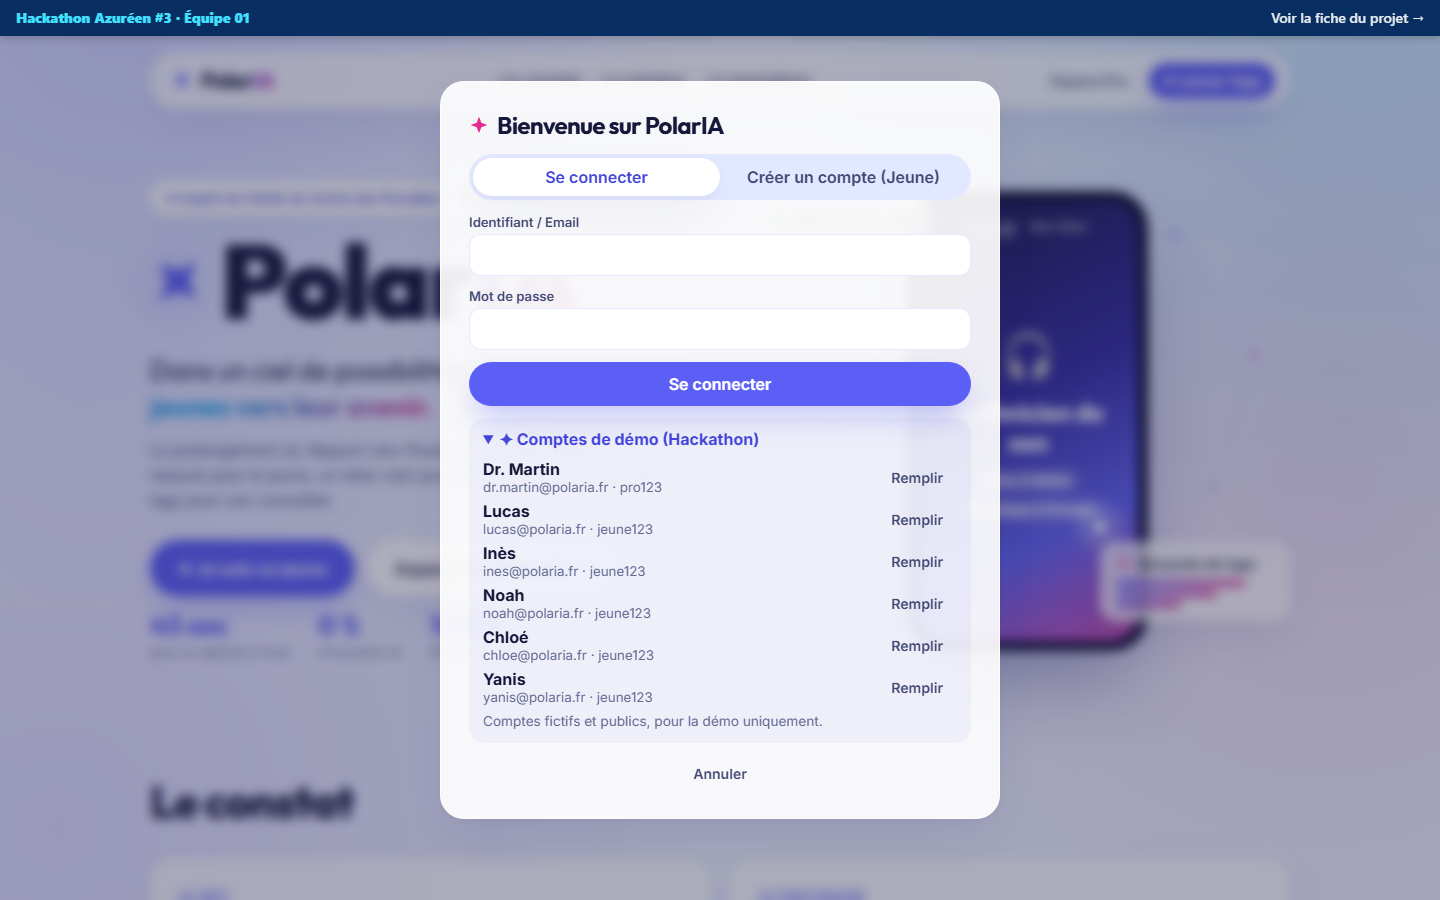
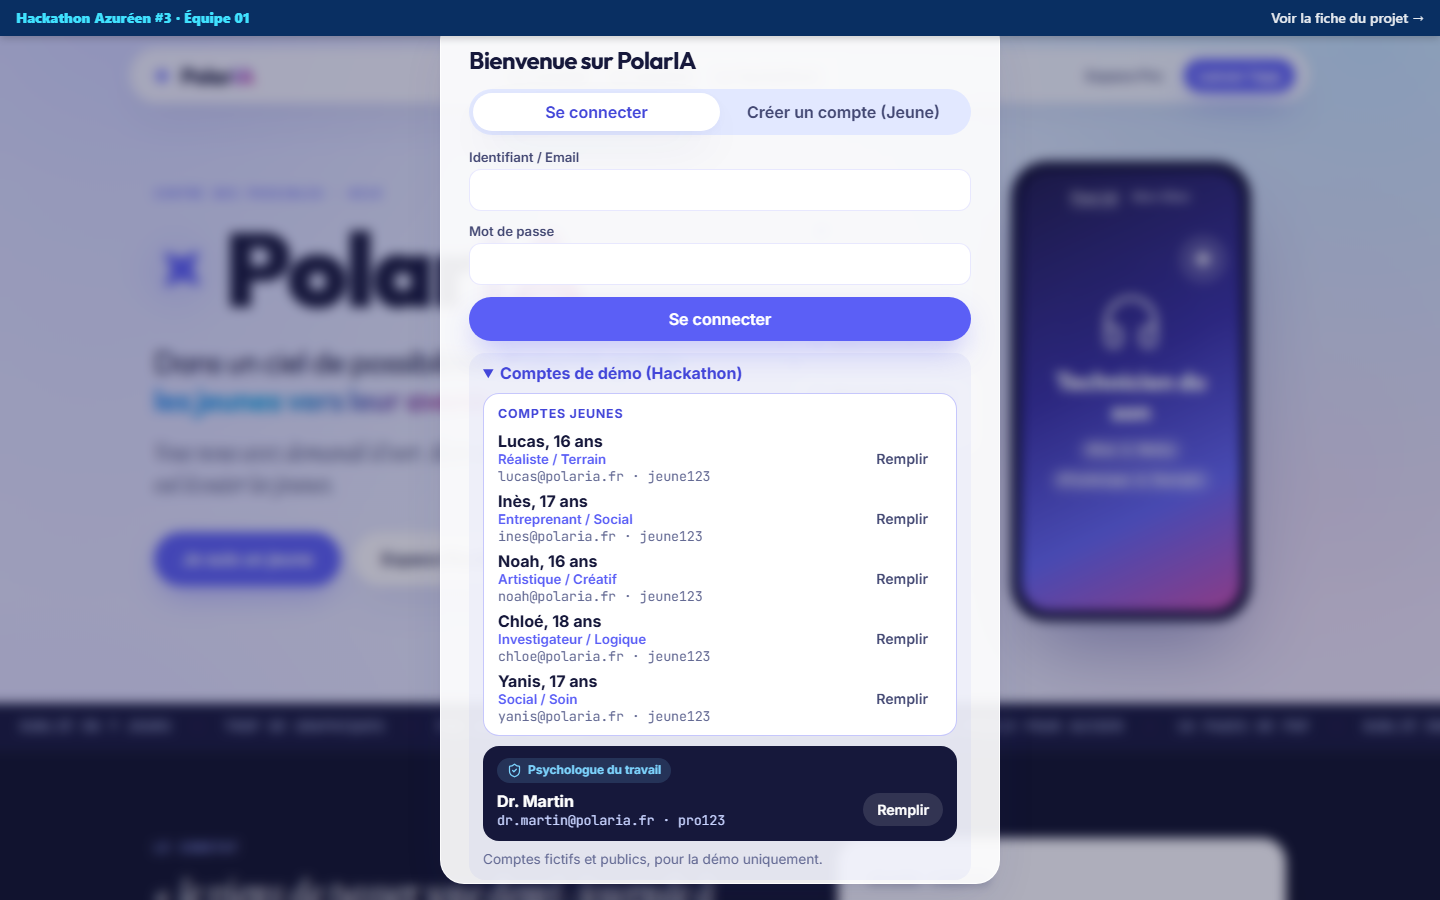
docs: document the v3 algorithm, layout and design rules, refresh screenshots

diff --git a/docs/ALGORITHME.md b/docs/ALGORITHME.md
@@ -10,16 +10,17 @@ Score(vidéo) = somme, pour chaque tag t de la vidéo, de user.tagScores[t]
 
 Un tag absent du profil compte pour 0. Les scores de tags sont toujours bornés entre 0 et 100.
 
-## 2. Construction du feed « Pour toi »
+## 2. Construction du feed « Pour toi » : Exploitation + Découverte
 
-`buildFeed(videos, profile)` :
+`buildFeed(videos, profile, startPosition)` :
 
-1. Les vidéos **pas encore vues** passent avant les vidéos déjà vues.
-2. Dans chaque groupe, tri par score décroissant. À score égal, l'ordre du catalogue est conservé (résultat stable et reproductible).
-3. **Anti-bulle :** après chaque bloc de 4 vidéos, on insère 1 vidéo d'**exploration** (badge 🧭). Elle est choisie dans la moitié basse du classement, parmi les vidéos dont un tag correspond à la **2e dimension RIASEC** la plus forte du jeune, en commençant par la moins bien scorée.
-4. Chaque vidéo apparaît exactement une fois.
+1. **Exploitation (3 fiches sur 4)** : les fiches les mieux scorées, non vues d'abord, à score égal dans l'ordre du catalogue.
+2. **Découverte (1 fiche sur 4)** : aux positions **4, 8, 12…**, une fiche d'un domaine encore **peu scoré** (score inférieur ou égal au quart du meilleur score), en priorité compatible avec la 2e dimension RIASEC du jeune. Elle porte le badge « Découverte » (icône boussole) dans le feed et dans « Prochain feed ».
+3. Chaque fiche apparaît exactement une fois.
 
-Dans l'app, l'ordre est figé tant que le jeune est sur le feed (la carte ne « saute » pas quand il met une étoile). Il est recalculé au retour sur le feed ou avec le bouton « Recharger mon feed ». Sur desktop, le panneau « Algo en direct » montre le prochain feed et les scores en temps réel.
+**Feed vivant** (`buildLiveFeed`) : les fiches que le jeune a déjà atteintes restent à leur place ; toute la suite est recalculée à chaque changement de score, en gardant le rythme 3 + 1. Une étoile sur une carte Découverte fait donc remonter son domaine immédiatement dans la suite du feed.
+
+Sur desktop, le panneau « Algo en direct » montre la boussole des tags et les 8 prochaines fiches, en temps réel.
 
 ## 3. Signaux et mises à jour
 
@@ -30,6 +31,8 @@ Dans l'app, l'ordre est figé tant que le jeune est sur le feed (la carte ne « 
 | Pro : ajouter un tag | Le tag (choisi dans le catalogue fermé) démarre à 10 | `addTag` |
 | Pro : boutons + et - | +5 ou -5, borné entre 0 et 100 | `adjustTag` |
 | Pro : supprimer | Retire le tag du profil | `removeTag` |
+| Jeune (Mon Profil) : voir plus / voir moins | +3 ou -3, minimum 0 | `adjustTag` via `youthTune` |
+| Jeune (Mon Profil) : explorer un domaine | Le tag démarre à 6 | `addTag` via `youthExplore` |
 
 Un tag hors catalogue ou une valeur non numérique est **refusé** (exception attrapée par le store, l'action est ignorée).
 

diff --git a/docs/ARCHITECTURE.md b/docs/ARCHITECTURE.md
@@ -12,14 +12,15 @@ index.html (bandeau Code4Sud, CSP au build)
    └─ src/main.tsx  HashRouter + synchro inter-onglets + hauteur du bandeau
         └─ src/App.tsx  routes
              ├─ /                       routes/Landing.tsx
-             ├─ /app                    routes/YouthApp.tsx
+             ├─ /app (route-layout)     routes/YouthApp.tsx : téléphone + panneau latéral
+             │    ├─ /app/details/:id   components/DetailsScreen.tsx (dans le téléphone)
+             │    ├─ /app/profil        components/ProfileScreen.tsx (dans le téléphone)
              │    ├─ components/Feed.tsx          feed vertical, étoile, watch time, swipe
              │    ├─ components/DebriefStory.tsx  « Générer mon avenir » + voix
              │    └─ components/Bilan.tsx         radar, tags, rapport parents
-             ├─ /app/details/:videoId   routes/Details.tsx
              └─ /pro                    routes/Pro.tsx  tableau + éditeur de tags
 
-          UI ──lit/écrit──▶ store/useStore.ts (Zustand + localStorage)
+          UI ──lit/écrit──> store/useStore.ts (Zustand + localStorage)
                                  │ appelle
                                  ▼
           engine/signals.ts    (étoile, regard, édition pro : fonctions pures)
@@ -51,7 +52,11 @@ Les URL utilisent un `#` (`/#/app`) car GitHub Pages ne sait pas renvoyer `index
 | `src/engine/auth.ts` | Connexion et inscription de démo | `authenticate`, `validateRegistration`, `createYouthAccount` |
 | `src/engine/documents.ts` | Import PDF factice (métadonnées seules) | `validatePdf`, `sanitizeFileName`, `formatSize`, `makeDocument` |
 | `src/store/useStore.ts` | État global : comptes, session, profils, documents | `useStore`, `useCurrentYouth`, `useCurrentAccount`, `enableCrossTabSync` |
-| `src/components/AuthModal.tsx` | Connexion, comptes de démo, inscription | `AuthModal` |
+| `src/components/AuthModal.tsx` | Connexion, comptes de démo (jeunes / pro séparés), inscription | `AuthModal` |
+| `src/components/icons.tsx` | Catalogue d’icônes lucide-react des fiches | `VideoIcon`, `VIDEO_ICONS` |
+| `src/components/DetailsScreen.tsx` | Fiche affichée dans le téléphone | `DetailsScreen` |
+| `src/components/ProfileScreen.tsx` | Mon Profil & Mes Tags | `ProfileScreen` |
+| `src/components/AlgoPanel.tsx`, `WhyPanel.tsx` | Contenus du panneau latéral | `AlgoContent`, `WhyContent` |
 | `src/components/Documents.tsx` | Glisser-déposer PDF, progression, liste | `DocumentsSection` |
 | `src/lib/radar.ts` | Géométrie du radar SVG | `radarPoints`, `toPath` |
 | `src/lib/speech.ts` | Lecture vocale (Web Speech API) | `speak`, `stopSpeaking`, `canSpeak` |

diff --git a/docs/TESTS.md b/docs/TESTS.md
@@ -28,13 +28,13 @@ La couverture est mesurée sur `src/engine`, `src/domain`, `src/data`, `src/stor
 
 ## Garde-fous (`tests/security/guards.test.ts`)
 
-Ils échouent si quelqu'un réintroduit un risque : bandeau Code4Sud absent, `projet.json` invalide, `<textarea>` ou `contentEditable`, `dangerouslySetInnerHTML`, `innerHTML`, `eval`, appel réseau, lien `target="_blank"` sans `noopener`, CSP affaiblie, clé d'API ou fichier `.env` suivi par git, fichier de consignes pour agents IA poussé dans le dépôt.
+Ils échouent si quelqu'un réintroduit un risque ou casse la DA (aucun emoji système, aucun caractère ✦ décoratif, étoile réservée au logo et au bouton Étoile, chaque fiche avec une icône Lucide connue) : bandeau Code4Sud absent, `projet.json` invalide, `<textarea>` ou `contentEditable`, `dangerouslySetInnerHTML`, `innerHTML`, `eval`, appel réseau, lien `target="_blank"` sans `noopener`, CSP affaiblie, clé d'API ou fichier `.env` suivi par git, fichier de consignes pour agents IA poussé dans le dépôt.
 
 ## Bout en bout
 
 `tests/e2e/journeys.spec.ts` tourne sur deux projets Playwright : **mobile** (390 x 844, tactile) et **desktop** (1440 x 900). Il construit l'app puis la sert avec `vite preview`.
 
-Parcours couverts : connexion et inscription (le compte apparaît chez le pro puis disparaît au rechargement), radar qui bouge après une étoile et après une action du pro dans un autre onglet, panneau « Pourquoi » sur la fiche, import et refus de fichiers, bandeau et CSP sans violation, absence de défilement horizontal sur chaque écran, localStorage piégé sans exécution de script, étoile, regard de 3 s (horloge simulée), scroll vertical aimanté, swipe vers la fiche, débrief puis rapport parents, espace Pro sans zone de texte, réorientation visible dans le feed, synchro en direct entre deux onglets.
+Parcours couverts : fiche ouverte dans le téléphone avec bascule du panneau latéral, « Prochain feed » sur une ligne et barres sans chevauchement ni débordement, Mon Profil qui réoriente la boussole, landing éditoriale, connexion et inscription (le compte apparaît chez le pro puis disparaît au rechargement), radar qui bouge après une étoile et après une action du pro dans un autre onglet, panneau « Pourquoi » sur la fiche, import et refus de fichiers, bandeau et CSP sans violation, absence de défilement horizontal sur chaque écran, localStorage piégé sans exécution de script, étoile, regard de 3 s (horloge simulée), scroll vertical aimanté, swipe vers la fiche, débrief puis rapport parents, espace Pro sans zone de texte, réorientation visible dans le feed, synchro en direct entre deux onglets.
 
 Première exécution en local :
 

diff --git a/README.md b/README.md
@@ -10,7 +10,7 @@ Au Centre des Possibles (Nice Méridia), les 16-25 ans repartent de leur bilan d
 
 | Pour qui | Quoi |
 | --- | --- |
-| **Le jeune** | Un feed vertical façon Reels de fiches métiers, formations et écoles. Une étoile ✦, un swipe : l'algorithme apprend ce qui l'attire. Chaque fiche explique « Pourquoi PolarIA te propose ça ? » (pourcentage de match, tags, règles). Le bouton « Générer mon avenir » lui raconte son bilan en 40 à 60 mots, à l'oral. |
+| **Le jeune** | Un feed vertical façon Reels de fiches métiers, formations et écoles. Une étoile, un swipe : l'algorithme apprend ce qui l'attire, et 1 fiche sur 4 est une « Découverte » pour sortir de la bulle. Dans « Mon Profil », il règle lui-même ses tags (voir plus, voir moins, nouveaux domaines). Chaque fiche explique « Pourquoi PolarIA te propose ça ? » (pourcentage de match, tags, règles). Le bouton « Générer mon avenir » lui raconte son bilan en 40 à 60 mots, à l'oral. |
 | **Les parents** | L'onglet « Mon Bilan » : radar RIASEC qui évolue en direct, centres d'intérêt explorés et rapport d'accompagnement imprimable, avec des pistes rangées par durée d'études. |
 | **Les pros** | Un tableau de bord où le conseiller réoriente le feed avec des tags et des poids, et rattache le Rapport des Possibles en PDF (import simulé). Aucune note libre, aucune donnée médicale. |
 
@@ -75,7 +75,7 @@ Première exécution des tests E2E : `npx playwright install chromium`.
 
 ## Stack
 
-React 19, TypeScript, Vite, Zustand, React Router, Framer Motion, polices Outfit et Inter auto-hébergées (Fontsource). Tests : Vitest, Testing Library, Playwright. CI GitHub Actions : lint, types, tests, E2E, recherche de secrets (gitleaks) et audit des dépendances.
+React 19, TypeScript, Vite, Zustand, React Router, Framer Motion, Recharts (radar), lucide-react (icônes, aucun emoji). Polices auto-hébergées (Fontsource) : Outfit (titres), Inter (texte), Instrument Serif (citations), JetBrains Mono (scores et chapitres). Tests : Vitest, Testing Library, Playwright. CI GitHub Actions : lint, types, tests, E2E, recherche de secrets (gitleaks) et audit des dépendances.
 
 ## Publier sur le site du hackathon
 

diff --git a/SECURITY.md b/SECURITY.md
@@ -33,6 +33,8 @@ connect-src 'self'; media-src 'self';
 object-src 'none'; base-uri 'self'; form-action 'none'
 ```
 
+Vite est configuré pour ne jamais intégrer de fichiers en `data:` (`assetsInlineLimit: 0`) : les polices restent servies par le site et respectent `font-src 'self'`. Un test E2E échoue en cas de violation CSP.
+
 `style-src 'unsafe-inline'` reste nécessaire : le bandeau Code4Sud et l'animation de swipe posent des styles en ligne. Ce n'est pas un vecteur d'exécution de script.
 
 GitHub Pages ne permet pas d'envoyer d'en-têtes HTTP personnalisés : `X-Frame-Options`, `frame-ancestors` et HSTS ne sont donc pas configurables ici. Si l'application passe sur un hébergeur avec backend (Vercel, Render), ajouter ces en-têtes côté serveur.
